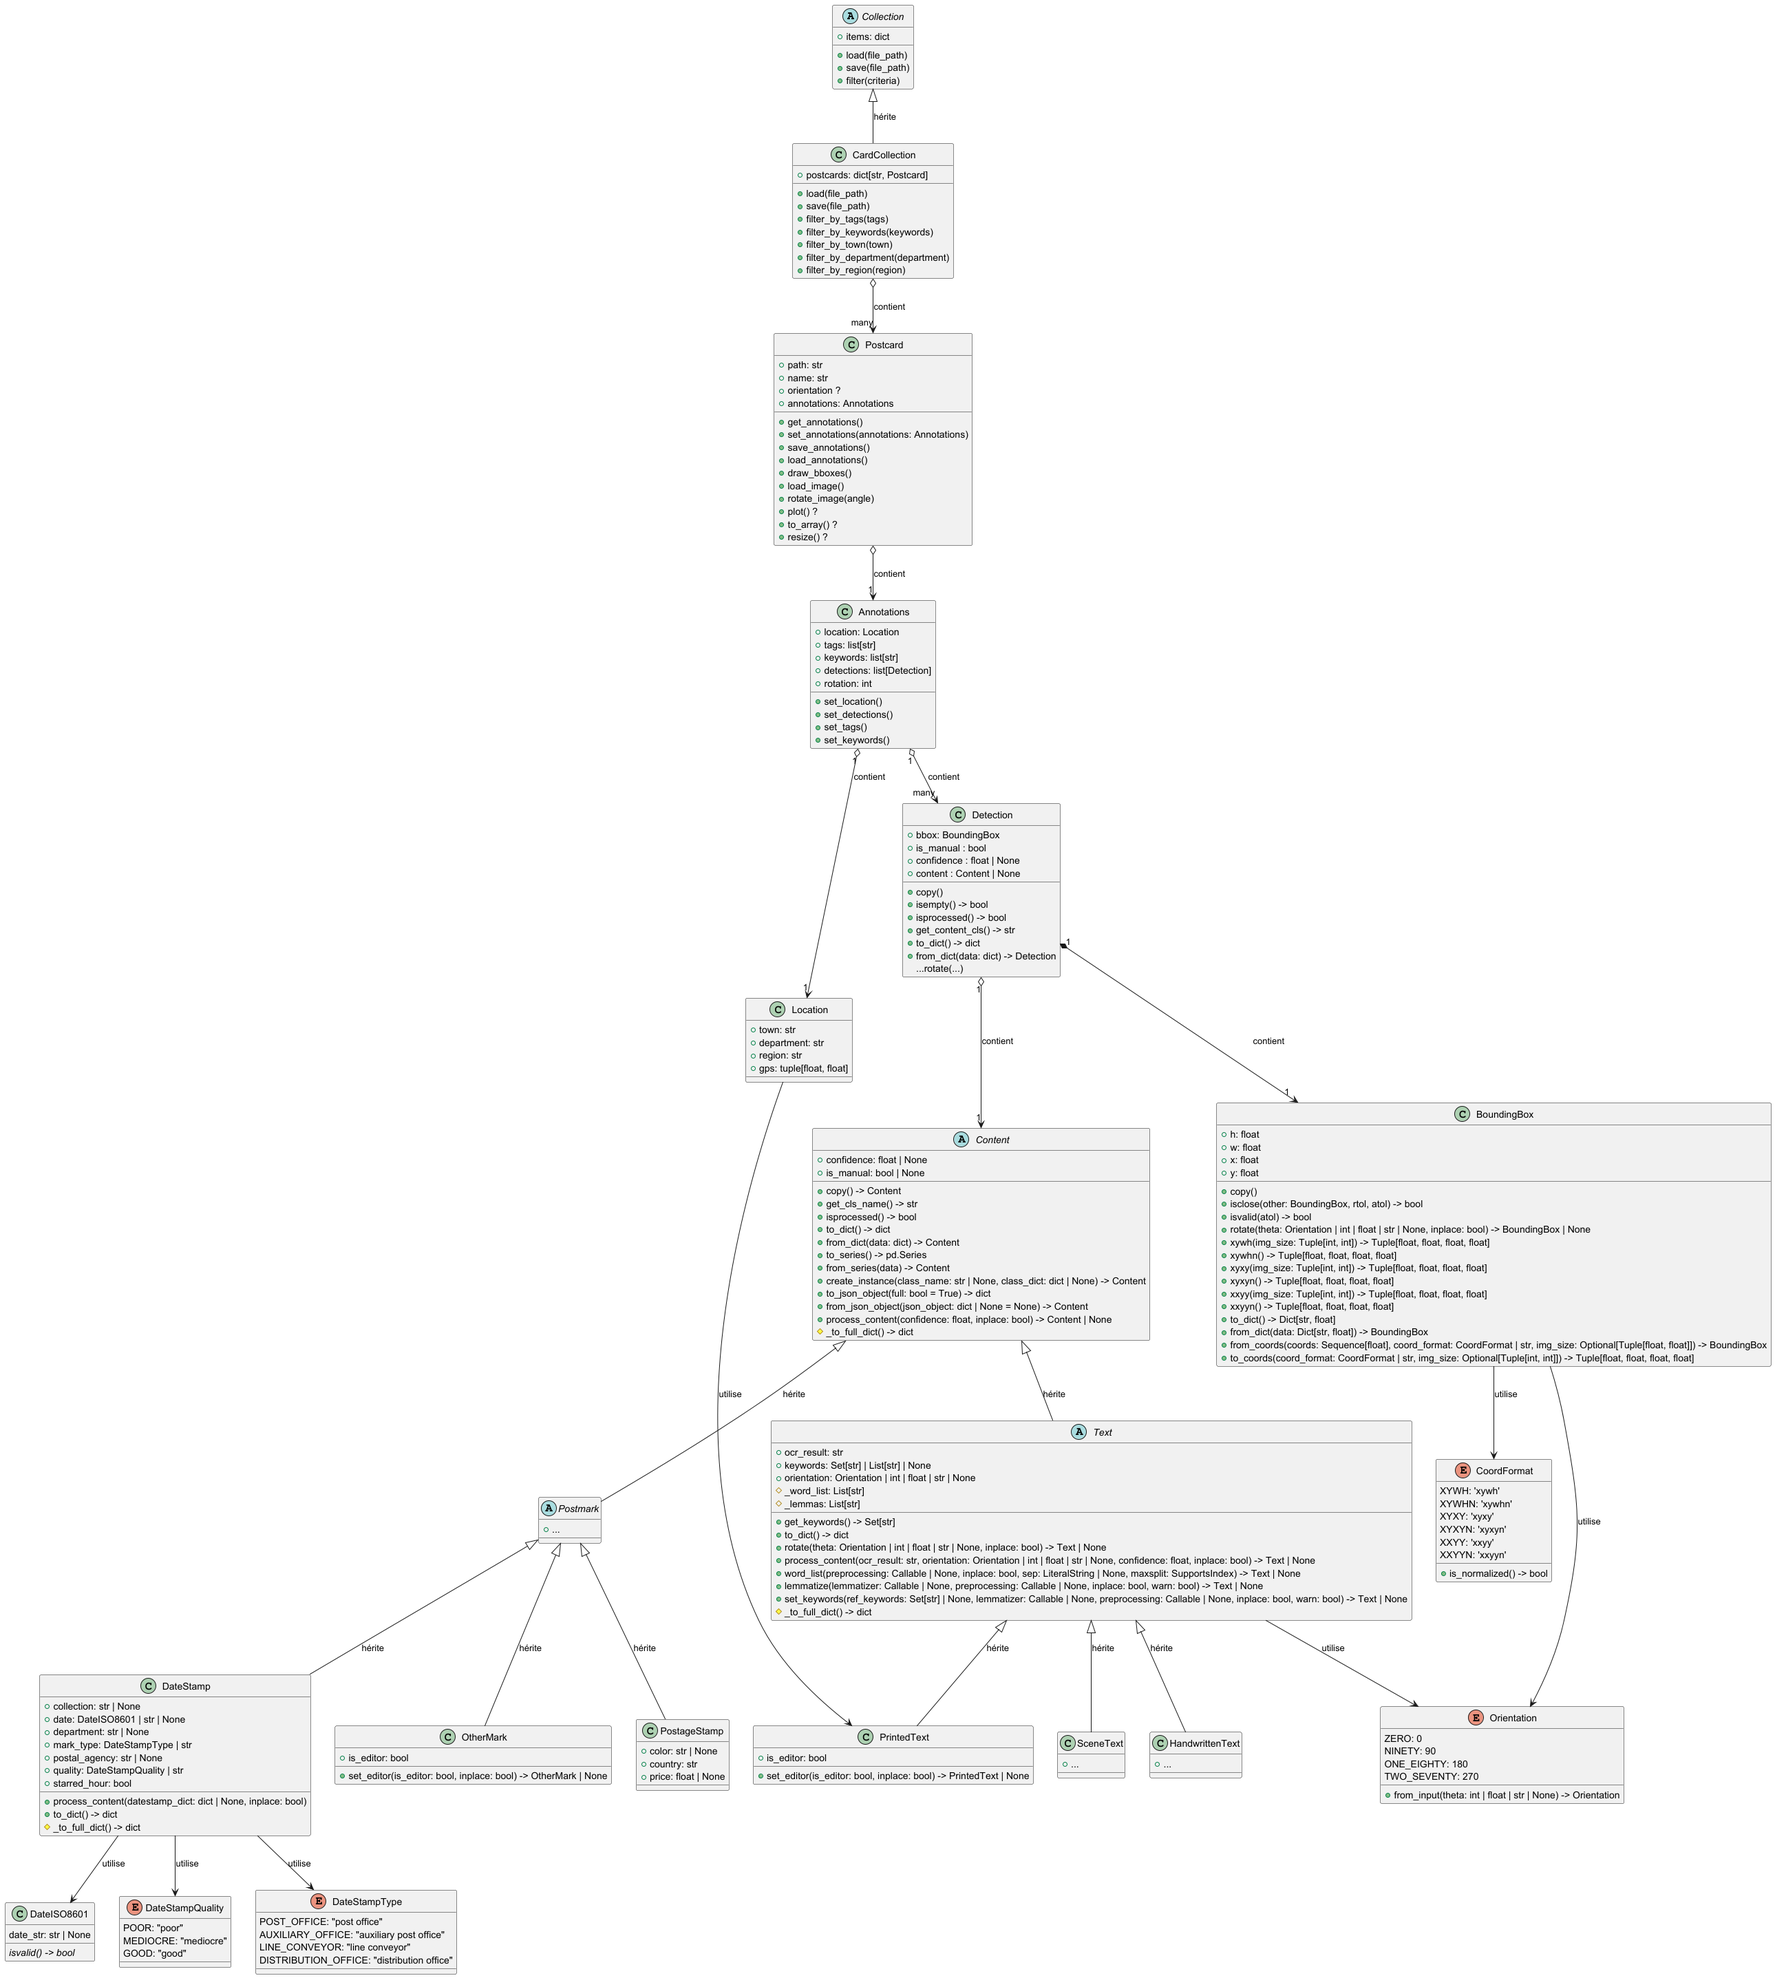
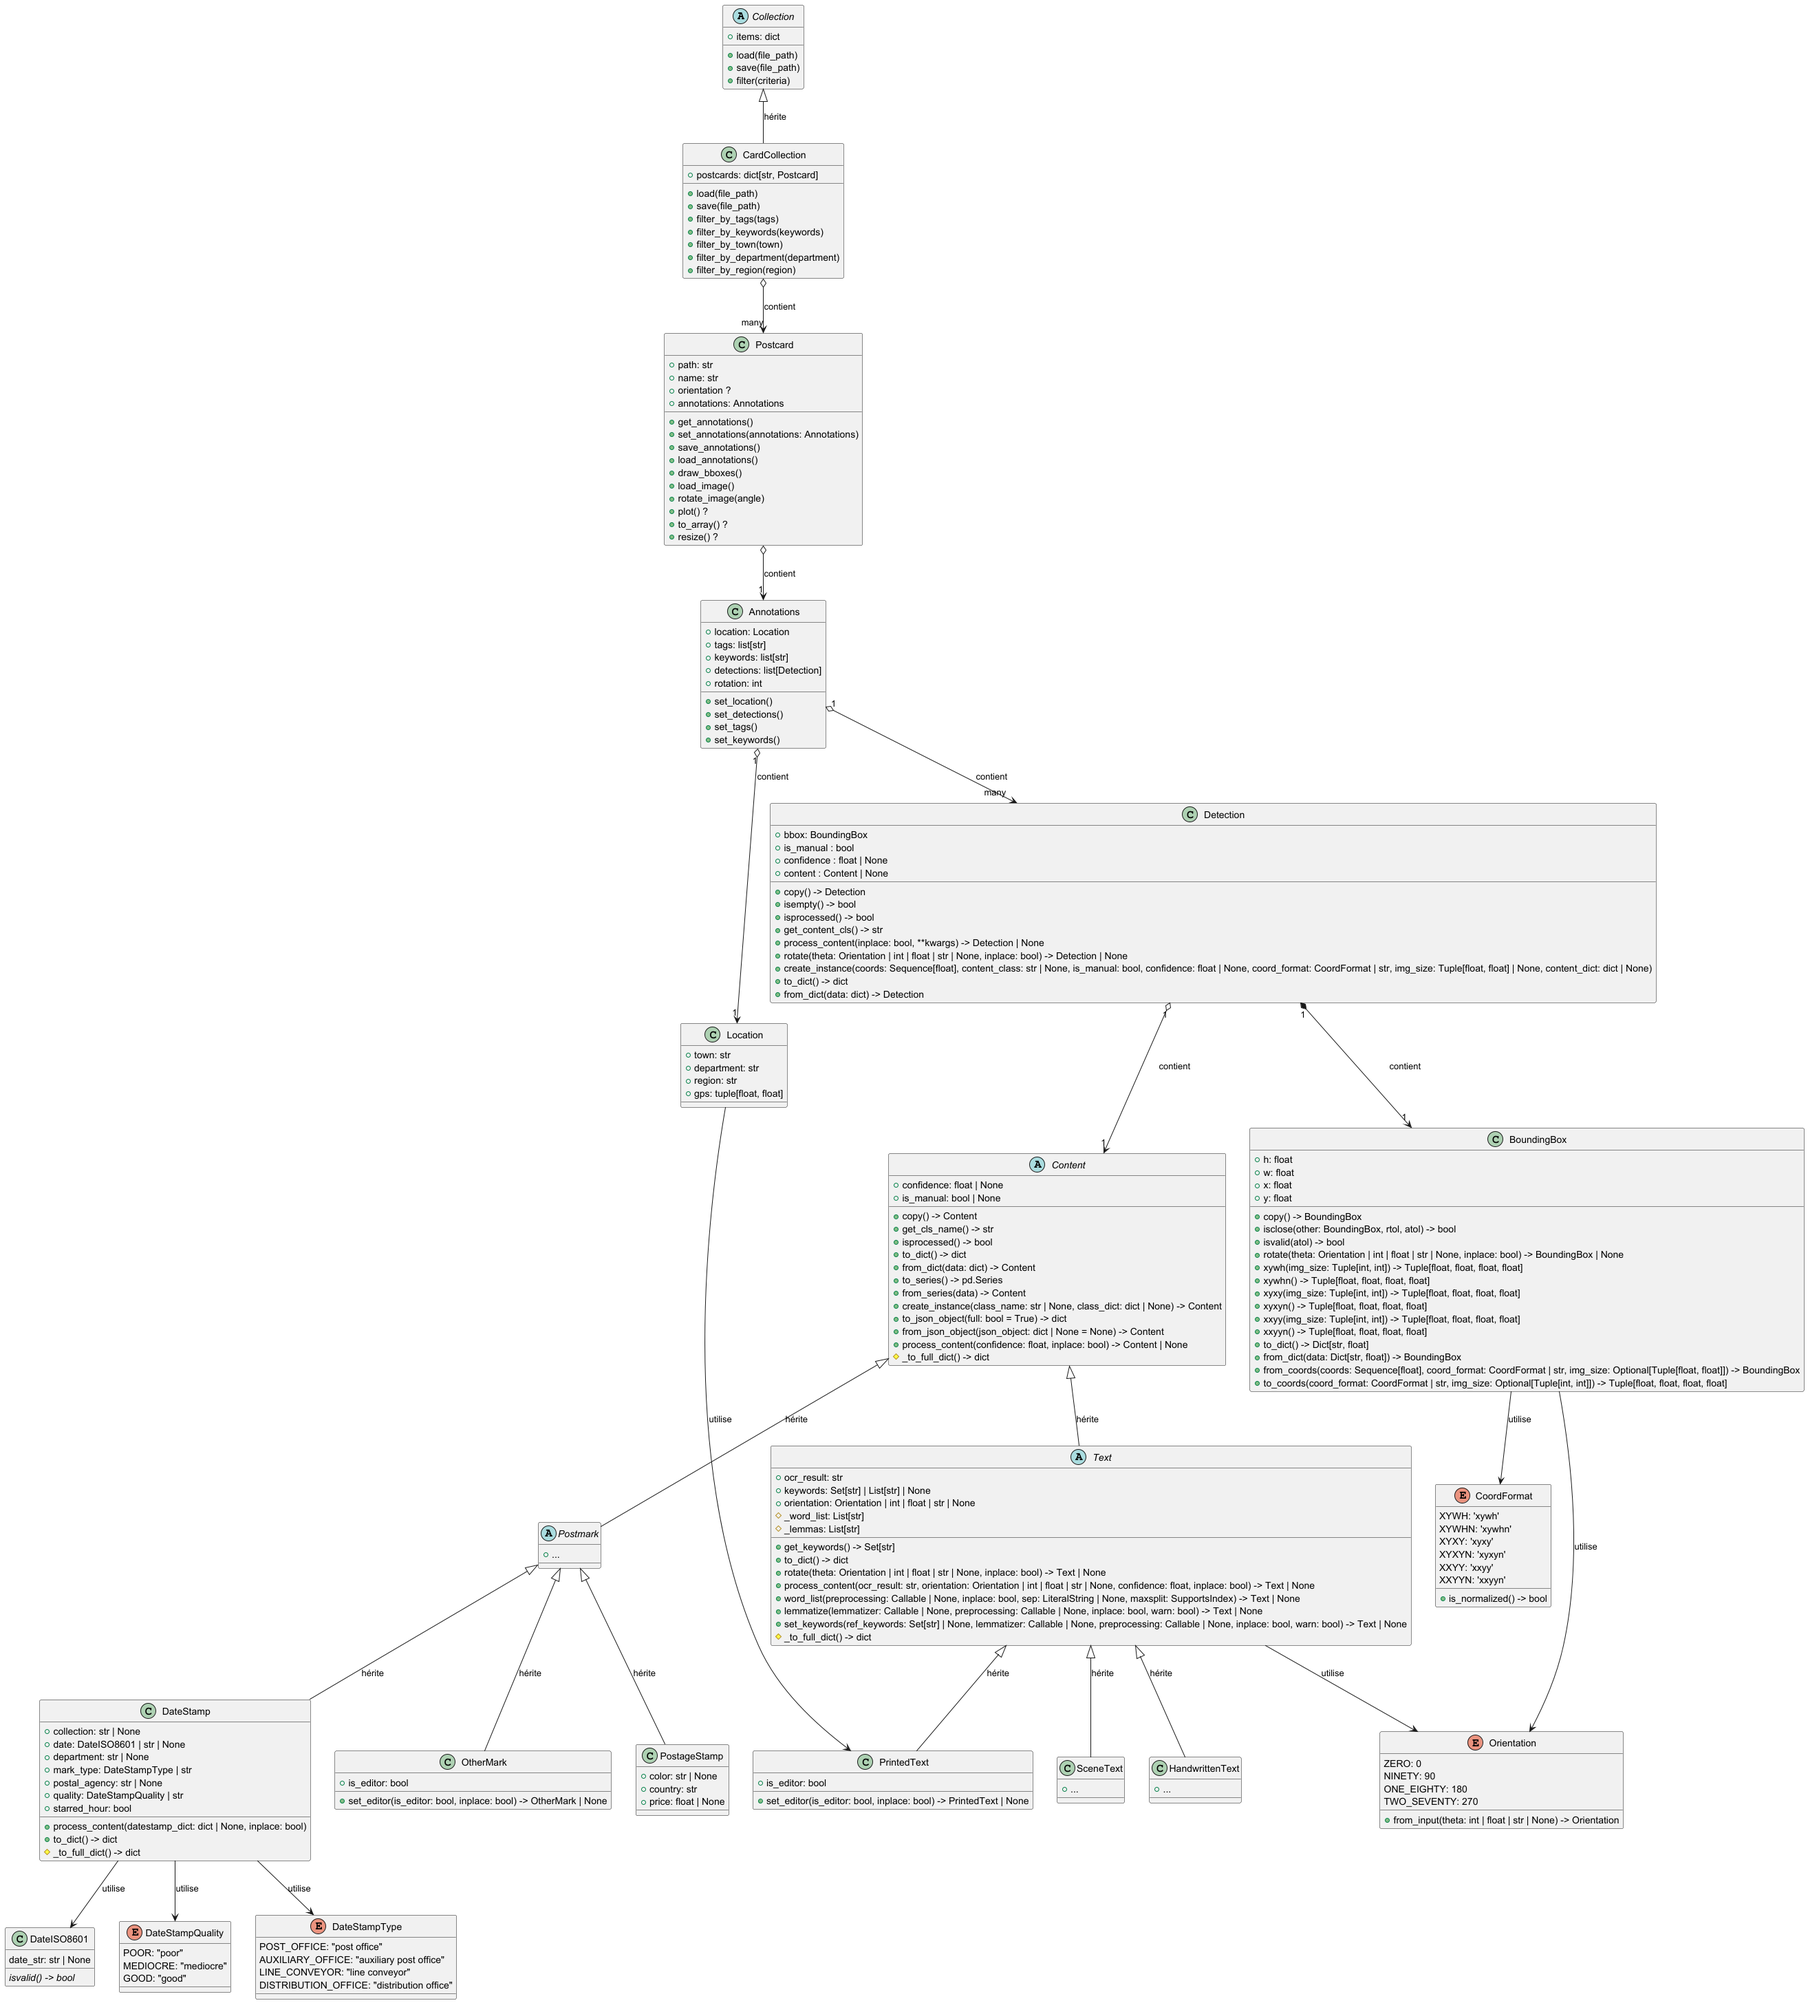
- Added Detection.create_instance() static method and associated unit tests - Added Detection.process_content() method and associated unit tests

diff --git a/tests/test_detection.py b/tests/test_detection.py
@@ -43,6 +43,16 @@ def invalid_bbox(test_bboxes):
 # Detection
 # ---------
 @pytest.fixture
+def datestamp_json():
+    return {'postal_agency': 'ATTIGNY',
+            'date': 'XXXX-07-30TXX:XX',
+            'department': 'ARDENNES',
+            'starred_hour': False,
+            'collection': '3E',
+            'mark_type': 'post office',
+            'quality': 'mediocre'}
+
+@pytest.fixture
 def dict_empty_det(test_bboxes):
   return {'bbox': {coord: value for coord, value in zip('xywh', test_bboxes['xywhn'])},
           'is_manual': False,
@@ -218,6 +228,8 @@ class TestClassDetection:
         with pytest.raises(ValueError):
             Detection(bbox, is_manual=False)
 
+    # Les tests :
+    # -----------
     def test_isempty(self, bbox, empty_det, text_det, datestamp_det):
         """test if Detection has content"""
         assert Detection(bbox).isempty()
@@ -234,6 +246,8 @@ class TestClassDetection:
         assert text_det.isprocessed()
         assert datestamp_det.isprocessed()
 
+    # liées à Content :
+    # -----------------
     def test_get_content_cls(self, bbox, datestamp_det):
         """test Content class retrieval"""
         assert Detection(bbox).get_content_cls() == "Content"
@@ -242,6 +256,32 @@ class TestClassDetection:
         assert Detection(bbox, content=DateStamp()).get_content_cls() == "DateStamp"
         assert Detection(bbox, content=PrintedText()).get_content_cls() == "PrintedText"
 
+    def test_process_content(self, datestamp_det, datestamp_json):
+        """test of content processing"""
+        # il nous faut une détection de datestamp où le contenu n'est pas set manuellement
+        auto_datestamp_det = datestamp_det.copy()
+        auto_datestamp_det.content.is_manual = False  # car process_content n'est prévu que pour l'automatisation
+        # instance de test
+        test_det_stamp = Detection(datestamp_det.bbox,
+                                   is_manual=datestamp_det.is_manual,
+                                   confidence=datestamp_det.confidence,
+                                   content=DateStamp())
+        # pour le test inplace
+        test_det_stamp_copy = test_det_stamp.copy()
+        # tests
+        assert not test_det_stamp.isempty()
+        assert not test_det_stamp.isprocessed()
+        assert test_det_stamp != auto_datestamp_det
+        assert test_det_stamp.process_content(**datestamp_json) == auto_datestamp_det
+        assert test_det_stamp.process_content(datestamp_dict=datestamp_json) == auto_datestamp_det
+        # test inplace
+        assert test_det_stamp_copy == test_det_stamp
+        test_det_stamp_copy.process_content(inplace=True, **datestamp_json)
+        assert test_det_stamp_copy != test_det_stamp
+        assert test_det_stamp_copy == auto_datestamp_det
+
+    # opérations :
+    # ------------
     def test_rotate(self, empty_det, text_det, datestamp_det):
         """test rotation of Detection"""
         assert empty_det.rotate(90).rotate(-90) == empty_det
@@ -259,6 +299,28 @@ class TestClassDetection:
         assert datestamp_det_copy == datestamp_det.rotate(-180)
 
 
+    def test_create_instance(self, bbox, empty_det, text_det, dict_text_det, dict_datestamp_det):
+        """test of create_instance static method"""
+        assert Detection.create_instance(bbox.xyxyn(), is_manual=False, confidence=0.75, coord_format="xyxyn") == empty_det
+        assert Detection.create_instance(
+            list(dict_text_det['bbox'].values()),
+            is_manual=dict_text_det['is_manual'],
+            confidence=dict_text_det['confidence'],
+            content_class=list(dict_text_det['content'].keys())[0],
+            content_dict=list(dict_text_det['content'].values())[0],
+        ) == text_det
+        assert Detection.create_instance(
+            list(dict_datestamp_det['bbox'].values()),
+            is_manual=dict_datestamp_det['is_manual'],
+            confidence=dict_datestamp_det['confidence'],
+            content_class=list(dict_text_det['content'].keys())[0],
+        ) == Detection(bbox=BoundingBox.from_dict(dict_datestamp_det['bbox']),
+                       is_manual=dict_datestamp_det['is_manual'],
+                       confidence=dict_datestamp_det['confidence'],
+                       content=Content.create_instance(content_class=list(dict_text_det['content'].keys())[0]))
+
+    # pour exporter/importer :
+    # ------------------------
     def test_to_dict(self, empty_det, text_det, datestamp_det, dict_empty_det, dict_text_det, dict_datestamp_det):
         """test Detection transformation to dict"""
         assert empty_det.to_dict() == dict_empty_det

diff --git a/t2ia_collection/content.py b/t2ia_collection/content.py
@@ -77,7 +77,7 @@ class Content(ABC):
     # créer n'importe quelle sous-classe
     # ----------------------------------
     @classmethod
-    def create_instance(cls, class_name: str | None = None, class_dict: dict | None = None) -> "Content":
+    def create_instance(cls, content_class: str | None = None, content_dict: dict | None = None) -> "Content":
         """Permet de créer n'importe quelle sous-classe à partir de son nom (et d'un dict optionnel)"""
         # Récupérer toutes les sous-classes et la classe courante
         def get_all_subclasses(cls):
@@ -90,13 +90,13 @@ class Content(ABC):
         dict_subcls = {subcls.__name__: subcls for subcls in get_all_subclasses(cls)}
 
         # Vérifier si le nom de classe existe
-        if class_name is None:
-            class_name = cls.__name__  # si pas spécifié, on prend le nom de la classe courante
-        elif class_name not in dict_subcls.keys():
-            raise ValueError(f"Classe {class_name} non trouvée")
+        if content_class is None:
+            content_class = cls.__name__  # si pas spécifié, on prend le nom de la classe courante
+        elif content_class not in dict_subcls.keys():
+            raise ValueError(f"Classe {content_class} non trouvée")
 
         # Instancier la classe avec les attributs du dictionnaire
-        res = dict_subcls[class_name]() if class_dict is None else dict_subcls[class_name].from_dict(class_dict)
+        res = dict_subcls[content_class]() if content_dict is None else dict_subcls[content_class].from_dict(content_dict)
         return res
 
     def to_json_object(self, full: bool = True) -> dict:
@@ -115,7 +115,7 @@ class Content(ABC):
 
     # Les traitements :
     # -----------------
-    def process_content(self, confidence: float = 0, inplace: bool = False, *args, **kwargs):
+    def process_content(self, confidence: float = 0, inplace: bool = False, **kwargs):
         """Méthode pour les différents traitements des contenus renvoie soit une copie, soit modifie en place"""
         res = self if inplace else self.copy()
         # modifications
@@ -456,7 +456,7 @@ class DateStamp(Postmark):
 
     # Les traitements :
     # -----------------
-    def process_content(self, datestamp_dict: dict | None = None, inplace: bool = False, *args, **kwargs):
+    def process_content(self, datestamp_dict: dict | None = None, inplace: bool = False, **kwargs):
         """Méthode pour le traitement du contenu des tampons d'oblitération"""
         res = self if inplace else self.copy()
         # modifications
@@ -464,6 +464,9 @@ class DateStamp(Postmark):
         if datestamp_dict is not None:  # si un dictionnaire est passé
             for key in datestamp_dict.keys():
                 res.__dict__[key] = datestamp_dict[key]
+        elif kwargs != {}:  # si on préfère passer les résultats par kwargs
+            for key in kwargs.keys():
+                res.__dict__[key] = kwargs[key]
 
         res.__post_init__()  # pour les vérifs
         return None if inplace else res

diff --git a/t2ia_collection/detection.py b/t2ia_collection/detection.py
@@ -60,7 +60,7 @@ class BoundingBox:
     def __iter__(self: "BoundingBox") -> Iterator[float]:
         return iter(self.xywhn())
 
-    def copy(self):
+    def copy(self) -> "BoundingBox":
         """retourne une copie de l'instance"""
         return deepcopy(self)
 
@@ -273,7 +273,7 @@ class Detection:
         if (self.is_manual is False) and self.confidence is None:
             raise ValueError("Confidence must be set if the detection is not manually set.")
 
-    def copy(self):
+    def copy(self) -> "Detection":
         """retourne une copie de l'instance"""
         return deepcopy(self)
 
@@ -291,9 +291,16 @@ class Detection:
 
     # liées à Content :
     # -----------------
-    def get_content_cls(self):
+    def get_content_cls(self) -> str:
         """retourne la classe du contenu"""
         return self.content.get_cls_name()
+
+    def process_content(self, inplace: bool = False, **kwargs):
+        """Méthode pour le traitement du contenu"""
+        res = self if inplace else self.copy()
+        # content processing
+        res.content.process_content(inplace=True, **kwargs)
+        return None if inplace else res
 
     # opérations :
     # ------------
@@ -306,6 +313,23 @@ class Detection:
         if isinstance(res.content, Text):  # car seuls les Text ont une orientation
             res.content.rotate(theta, inplace=True)
         return None if inplace else res
+
+    @staticmethod
+    def create_instance(coords: Sequence[float],
+                        content_class: str | None = None,
+                        is_manual: bool = True,
+                        confidence: float | None = None,
+                        coord_format: CoordFormat | str = CoordFormat.XYWHN,
+                        img_size: Tuple[float, float] | None = None,
+                        content_dict: dict | None = None):
+        """Création d'une instance de Detection, notamment à l'aide des outputs de Yolo"""
+        res = Detection(
+            BoundingBox.from_coords(coords=coords, coord_format=coord_format, img_size=img_size),
+            is_manual=is_manual,
+            confidence=confidence,
+            content=Content.create_instance(content_class=content_class, content_dict=content_dict)
+        )
+        return res
 
     # pour exporter/importer :
     # ------------------------
@@ -327,4 +351,3 @@ class Detection:
                          confidence=data['confidence'],
                          content=Content.from_json_object(data['content']))
 
-    # TODO : "create_instance" etc ...

diff --git a/tests/test_content.py b/tests/test_content.py
@@ -529,6 +529,7 @@ class TestClassDateStamp:
         assert not test_p.isprocessed()
         assert test_p != test_p2
         assert test_p2 == test_p.process_content(datestamp_json)
+        assert test_p2 == test_p.process_content(**datestamp_json)
         assert not test_p.isprocessed()
         # test des vérifications
         with pytest.raises(ValueError):
